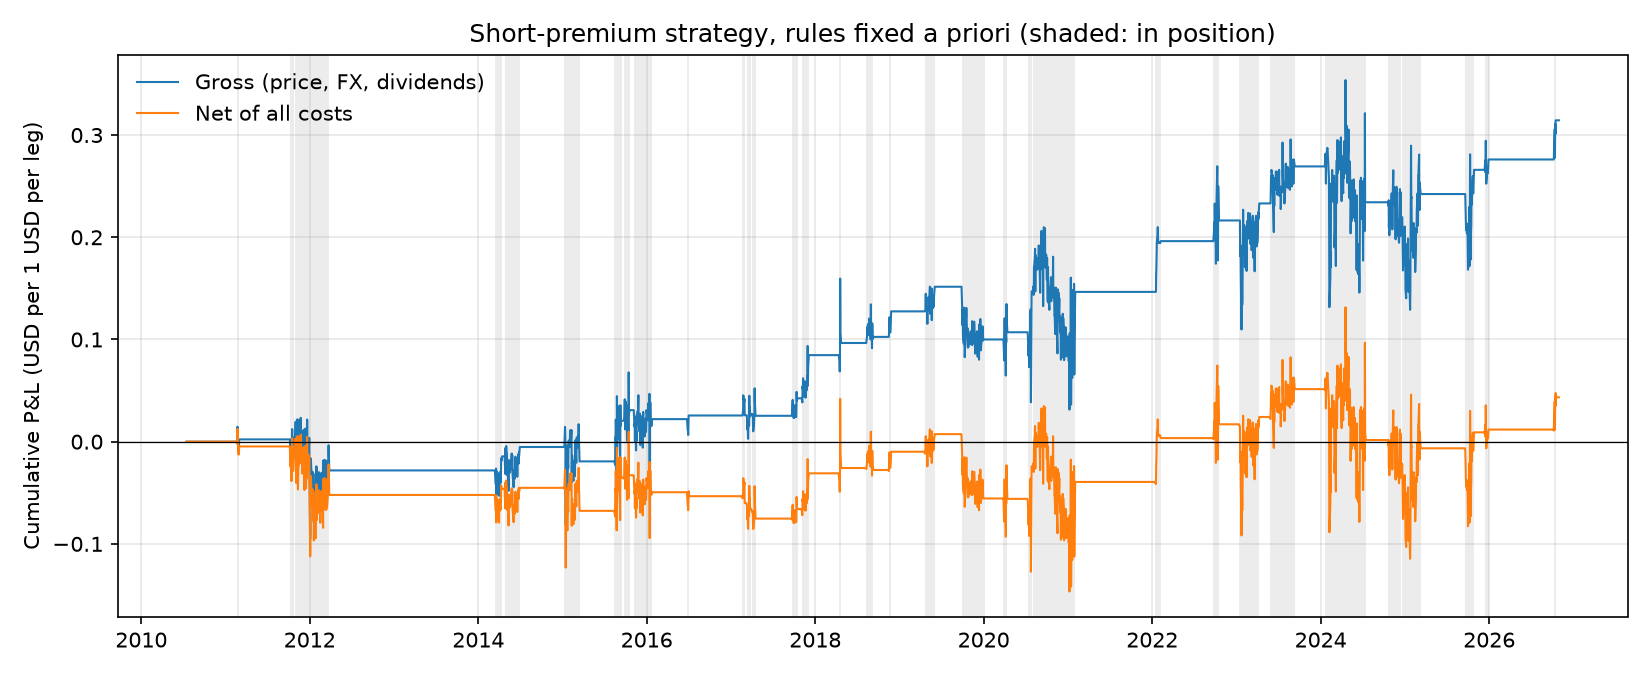
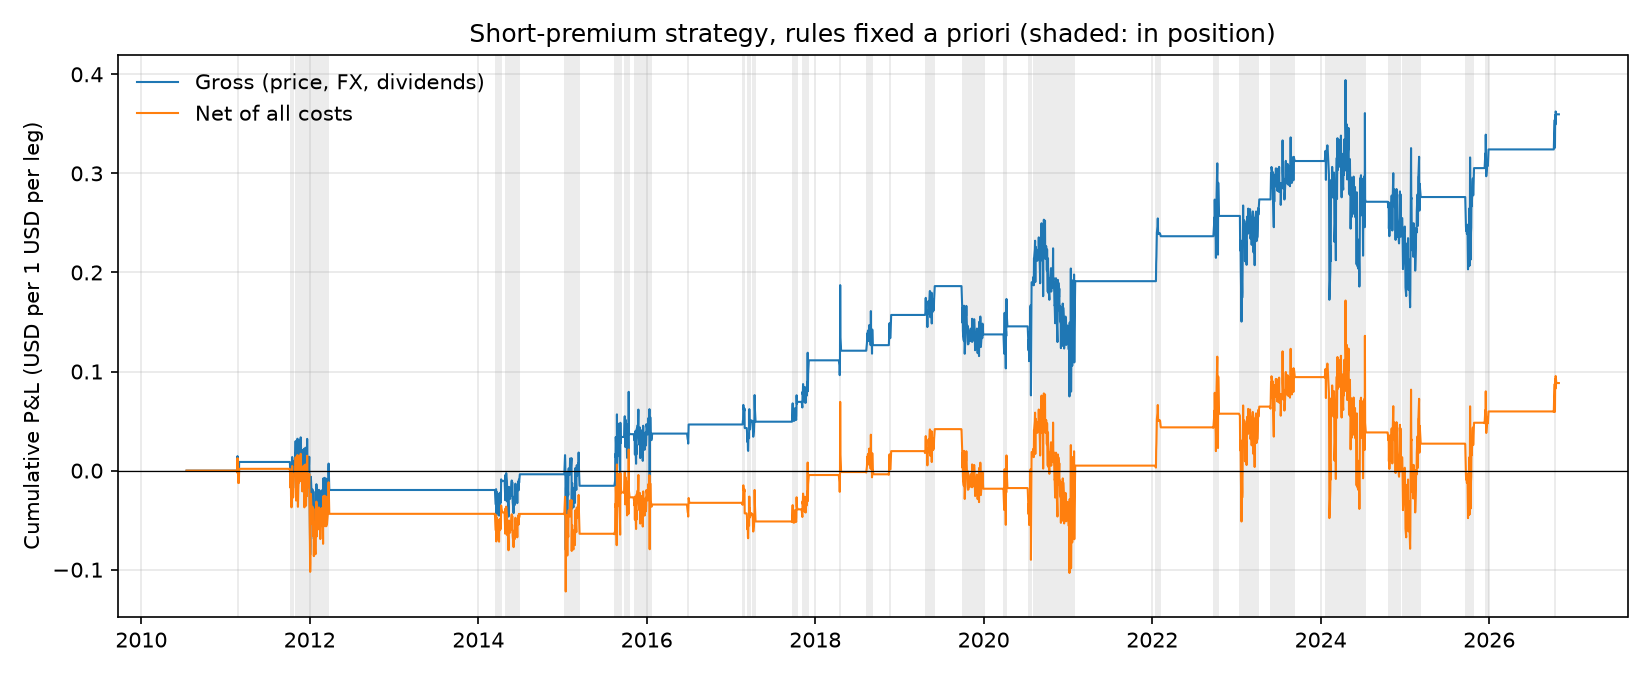
Convert the local leg at its own execution dates and add the net-dividend option
The local leg now uses the FRED rate of the local entry and exit dates. A new cost
option lets the ADR short pay the dividend net of withholding (default: gross), and
the financing assumption is stated in the module and the script output. One-trade
terms are computed once, so the fast final P&L and the daily path agree by test.

diff --git a/src/adr_premium/backtest.py b/src/adr_premium/backtest.py
@@ -10,7 +10,8 @@ Each leg trades at the first closing price strictly after that moment:
 - ADR: NY close of the first NY trading date >= d (NY closes after Taipei on the
   same calendar date);
 - local share: Taipei close of the first Taipei trading date > d;
-- FX: FRED rate (noon New York) of the ADR's NY execution date.
+- FX: FRED rate (noon New York) of the local leg's execution date, for both the
+  conversion into TWD at entry and the conversion of the sale proceeds at exit.
 The ``extra_lag`` option moves each leg by that many further trading days on its own
 exchange.
 
@@ -22,6 +23,10 @@ no order could have captured.
 
 Units: each trade puts 1 USD in each leg (long local, short ADR). P&L is in USD per
 1 USD per leg, without compounding; divide by 2 for a return on gross exposure.
+
+Financing: the proceeds of the ADR short sale are assumed to fund the purchase of the
+local share. Neither interest on the short proceeds nor a financing cost of the long
+leg is modelled; the only carry cost is the ADR borrow fee.
 """
 from __future__ import annotations
 
@@ -31,6 +36,9 @@ import numpy as np
 import pandas as pd
 
 from adr_premium.premium import ADR_RATIO, premium_prev_ny
+
+FINANCING_ASSUMPTION = ("Financing: the ADR short-sale proceeds fund the local purchase; no interest "
+                        "income or financing cost is modelled, only the ADR borrow fee.")
 
 # ---------------------------------------------------------------------------
 # Rules fixed a priori: chosen BEFORE any backtest was run and never tuned on the
@@ -78,10 +86,14 @@ class Costs:
     # Withholding tax on local dividends received by a non-resident. Assumption, not
     # verified (21% general rate since 2018, 20% before; treaties can lower it).
     dividend_withholding: float = 0.21
+    # Whether the ADR short pays the lender the dividend net of withholding (True) or
+    # the gross ADR dividend (False, default). Assumption, not verified.
+    short_pays_net_dividend: bool = False
 
     @classmethod
     def zero(cls) -> "Costs":
-        return cls(0.0, 0.0, 0.0, 0.0, 0.0, 0.0)
+        return cls(adr_commission=0.0, local_commission=0.0, local_sale_tax=0.0, fx_conversion=0.0,
+                   adr_borrow_fee=0.0, dividend_withholding=0.0)
 
 
 def _clean(s: pd.Series) -> pd.Series:
@@ -193,6 +205,15 @@ class Market:
     calendar: pd.DatetimeIndex
     ratio: int = ADR_RATIO
 
+    def __post_init__(self):
+        self._fx_dates = self.fx.index.to_numpy()
+        self._fx_values = self.fx.to_numpy()
+        self._div = {}
+        for col in ("adr", "local"):
+            d = self.dividends[col].dropna() if col in self.dividends else pd.Series(dtype=float)
+            d.index = pd.DatetimeIndex(d.index)
+            self._div[col] = d.astype(float)
+
     @classmethod
     def build(cls, adr, local, fx, dividends=None, ratio: int = ADR_RATIO) -> "Market":
         adr, local, fx = _clean(adr), _clean(local), _clean(fx)
@@ -202,79 +223,128 @@ class Market:
         return cls(adr, local, fx, dividends, cal, ratio)
 
     def fx_at(self, date) -> float:
-        """FRED rate at or before ``date`` (a NY execution date)."""
-        return float(self.fx.asof(date))
+        """FRED rate at or before ``date``."""
+        i = self._fx_dates.searchsorted(np.datetime64(date), side="right") - 1
+        return float(self._fx_values[i]) if i >= 0 else np.nan
+
+    def dividends_between(self, col: str, start, end) -> pd.Series:
+        """Ex-dates in (start, end]: a holder at the close before the ex-date is paid."""
+        d = self._div[col]
+        return d[(d.index > start) & (d.index <= end)]
 
     def on_calendar(self, s: pd.Series) -> pd.Series:
         """Last value at or before each calendar date."""
         return s.reindex(s.index.union(self.calendar)).ffill().reindex(self.calendar)
 
 
-def trade_path(trade: pd.Series, mkt: Market, costs: Costs) -> pd.DataFrame:
+@dataclass
+class TradeTerms:
+    """Execution prices, rates and dated one-off flows of one trade."""
+    a_in: pd.Timestamp
+    a_out: pd.Timestamp
+    l_in: pd.Timestamp
+    l_out: pd.Timestamp
+    pa_in: float
+    pa_out: float
+    pl_in: float
+    pl_out: float
+    fx_in: float
+    fx_out: float
+    shares: float  # local shares bought with 1 USD
+    local_exit_usd: float  # USD proceeds of the local sale
+    flows: list  # (date, component, signed amount)
+    borrow_total: float  # signed, over the whole holding period
+
+
+def trade_terms(trade, mkt: Market, costs: Costs) -> TradeTerms:
+    """Execution terms of one trade.
+
+    The local leg is converted at the FRED rate of its own execution dates: 1 USD is
+    converted to TWD on the local entry date, and the sale proceeds back to USD on the
+    local exit date.
+
+    Financing assumption: the proceeds of the ADR short sale fund the purchase of the
+    local share. No interest is earned on the short proceeds and no financing cost is
+    charged on the long leg; the only carry modelled is the ADR borrow fee.
+    """
+    a_in, a_out = pd.Timestamp(trade["adr_entry_date"]), pd.Timestamp(trade["adr_exit_date"])
+    l_in, l_out = pd.Timestamp(trade["local_entry_date"]), pd.Timestamp(trade["local_exit_date"])
+    pa_in, pa_out = float(mkt.adr.loc[a_in]), float(mkt.adr.loc[a_out])
+    pl_in, pl_out = float(mkt.local.loc[l_in]), float(mkt.local.loc[l_out])
+    fx_in, fx_out = mkt.fx_at(l_in), mkt.fx_at(l_out)
+    shares = fx_in / pl_in  # 1 USD converted to TWD, then local shares bought
+    local_exit_usd = shares * pl_out / fx_out
+    wht = costs.dividend_withholding
+
+    flows = []
+    for ex, amount in mkt.dividends_between("local", l_in, l_out).items():
+        gross = shares * amount / mkt.fx_at(ex)
+        flows += [(ex, "dividends_gross", gross), (ex, "withholding_tax", -wht * gross)]
+    for ex, amount in mkt.dividends_between("adr", a_in, a_out).items():
+        gross = amount / pa_in
+        flows.append((ex, "dividends_gross", -gross))
+        if costs.short_pays_net_dividend:
+            # The short owes the dividend net of withholding: the saving is booked
+            # against withholding_tax, so the gross P&L is the same in both cases.
+            flows.append((ex, "withholding_tax", wht * gross))
+
+    flows += [
+        (a_in, "adr_commission", -costs.adr_commission * 1.0),
+        (a_out, "adr_commission", -costs.adr_commission * pa_out / pa_in),
+        (l_in, "local_commission", -costs.local_commission * 1.0),
+        (l_out, "local_commission", -costs.local_commission * local_exit_usd),
+        # The transaction tax applies to sales of the local share only (here: the exit).
+        (l_out, "local_tax", -costs.local_sale_tax * local_exit_usd),
+        (l_in, "fx_conversion", -costs.fx_conversion * 1.0),  # USD -> TWD
+        (l_out, "fx_conversion", -costs.fx_conversion * local_exit_usd),  # TWD -> USD
+    ]
+    borrow = -costs.adr_borrow_fee * (a_out - a_in).days / 365.0
+    return TradeTerms(a_in, a_out, l_in, l_out, pa_in, pa_out, pl_in, pl_out, fx_in, fx_out,
+                      shares, local_exit_usd, flows, borrow)
+
+
+def trade_final(trade, mkt: Market, costs: Costs) -> pd.Series:
+    """Final P&L components of one trade (fast: no daily path)."""
+    t = trade_terms(trade, mkt, costs)
+    out = dict.fromkeys(PNL_COMPONENTS, 0.0)
+    out["price_fx"] = (1 - t.pa_out / t.pa_in) + (t.local_exit_usd - 1)
+    for _, col, amount in t.flows:
+        out[col] += amount
+    out["borrow_fee"] = t.borrow_total
+    return pd.Series(out)
+
+
+def trade_path(trade, mkt: Market, costs: Costs) -> pd.DataFrame:
     """Cumulative P&L components of one trade on every calendar date (USD per 1 USD leg).
 
     Components (costs are negative):
-    - price_fx: mark-to-market of both legs on their own closes, local leg converted
-      at the FRED rate of each date and, at exit, at the exit rate;
+    - price_fx: mark-to-market of both legs on their own closes, the local leg
+      converted at the FRED rate of each date while held;
     - dividends_gross: local dividends received (gross) minus ADR dividends paid by the
       short, booked on the ex-date. Both legs drop by their dividend on that date, so
       price_fx + dividends_gross is the total return before frictions;
     - withholding_tax, adr_commission, local_commission, local_tax (sales only),
       fx_conversion, borrow_fee.
     """
+    t = trade_terms(trade, mkt, costs)
     cal = mkt.calendar
-    a_in, a_out = trade["adr_entry_date"], trade["adr_exit_date"]
-    l_in, l_out = trade["local_entry_date"], trade["local_exit_date"]
-    pa_in, pa_out = float(mkt.adr.loc[a_in]), float(mkt.adr.loc[a_out])
-    pl_in, pl_out = float(mkt.local.loc[l_in]), float(mkt.local.loc[l_out])
-    fx_in, fx_out = mkt.fx_at(a_in), mkt.fx_at(a_out)
-    shares = fx_in / pl_in  # 1 USD converted to TWD, then local shares bought
-    local_exit_usd = shares * pl_out / fx_out
-
     out = pd.DataFrame(0.0, index=cal, columns=PNL_COMPONENTS)
 
     # Short ADR: 1 USD sold at pa_in.
-    adr_c = mkt.on_calendar(mkt.adr)
-    adr_pnl = 1 - adr_c / pa_in
-    adr_pnl[cal < a_in] = 0.0
-    adr_pnl[cal >= a_out] = 1 - pa_out / pa_in
+    adr_pnl = 1 - mkt.on_calendar(mkt.adr) / t.pa_in
+    adr_pnl[cal < t.a_in] = 0.0
+    adr_pnl[cal >= t.a_out] = 1 - t.pa_out / t.pa_in
     # Long local: valued at the FRED rate of each date while held.
-    loc_c, fx_c = mkt.on_calendar(mkt.local), mkt.on_calendar(mkt.fx)
-    loc_pnl = shares * loc_c / fx_c - 1
-    loc_pnl[cal < l_in] = 0.0
-    loc_pnl[cal >= l_out] = local_exit_usd - 1
+    loc_pnl = t.shares * mkt.on_calendar(mkt.local) / mkt.on_calendar(mkt.fx) - 1
+    loc_pnl[cal < t.l_in] = 0.0
+    loc_pnl[cal >= t.l_out] = t.local_exit_usd - 1
     out["price_fx"] = adr_pnl + loc_pnl
 
-    # Dividends: a holder at the close before the ex-date receives (or owes) it.
-    div = mkt.dividends
-    if len(div):
-        for col, start, end in (("local", l_in, l_out), ("adr", a_in, a_out)):
-            d = div[col].dropna()
-            d = d[(d.index > start) & (d.index <= end)]
-            for ex, amount in d.items():
-                booked = cal >= ex
-                if col == "local":
-                    gross = shares * amount / mkt.fx_at(ex)
-                    out.loc[booked, "dividends_gross"] += gross
-                    out.loc[booked, "withholding_tax"] -= costs.dividend_withholding * gross
-                else:
-                    out.loc[booked, "dividends_gross"] -= amount / pa_in
-
-    # Transaction costs, booked on each execution date.
-    def book(col, date, amount):
-        out.loc[cal >= date, col] -= amount
-
-    book("adr_commission", a_in, costs.adr_commission * 1.0)
-    book("adr_commission", a_out, costs.adr_commission * pa_out / pa_in)
-    book("local_commission", l_in, costs.local_commission * 1.0)
-    book("local_commission", l_out, costs.local_commission * local_exit_usd)
-    # The transaction tax applies to the sale of the local share only (here: the exit).
-    book("local_tax", l_out, costs.local_sale_tax * local_exit_usd)
-    book("fx_conversion", a_in, costs.fx_conversion * 1.0)  # USD -> TWD
-    book("fx_conversion", l_out, costs.fx_conversion * local_exit_usd)  # TWD -> USD
+    for date, col, amount in t.flows:
+        out.loc[cal >= date, col] += amount
 
     # Borrow fee on the initial short notional, pro rata on calendar days.
-    days = np.clip((cal - a_in).days, 0, (a_out - a_in).days)
+    days = np.clip((cal - t.a_in).days, 0, (t.a_out - t.a_in).days)
     out["borrow_fee"] = -costs.adr_borrow_fee * days / 365.0
     return out
 
@@ -313,10 +383,10 @@ def run_backtest(adr: pd.Series, local: pd.Series, fx: pd.Series, dividends=None
         records.append({
             "adr_entry_price": float(mkt.adr.loc[t["adr_entry_date"]]),
             "local_entry_price": float(mkt.local.loc[t["local_entry_date"]]),
-            "fx_entry": mkt.fx_at(t["adr_entry_date"]),
+            "fx_entry": mkt.fx_at(t["local_entry_date"]),
             "adr_exit_price": float(mkt.adr.loc[t["adr_exit_date"]]),
             "local_exit_price": float(mkt.local.loc[t["local_exit_date"]]),
-            "fx_exit": mkt.fx_at(t["adr_exit_date"]),
+            "fx_exit": mkt.fx_at(t["local_exit_date"]),
             "holding_days": (last - first).days,
             **final.to_dict(),
         })

diff --git a/tests/test_backtest.py b/tests/test_backtest.py
@@ -7,7 +7,7 @@ import pytest
 
 sys.path.insert(0, str(Path(__file__).resolve().parents[1] / "src"))
 from adr_premium.backtest import (Costs, Market, Rules, execution_dates, run_backtest,
-                                  trade_path, weekly_signal)
+                                  trade_final, trade_path, weekly_signal)
 
 
 def _world(seed=0, n=1500, phi=0.97, sigma_q=0.01, sigma_l=0.012):
@@ -178,3 +178,35 @@ def test_tax_only_on_local_sales():
                         Costs(local_sale_tax=0.0)).iloc[-1]
     assert no_tax["local_tax"] == 0.0
     assert no_tax.drop("local_tax").equals(path.iloc[-1].drop("local_tax"))
+
+
+def test_local_leg_converted_at_local_execution_dates():
+    dates = pd.date_range("2021-01-04", "2022-01-14", freq="B")
+    fx = pd.Series(30.0, index=dates)
+    fx[dates >= "2021-01-05"] = 31.0  # local entry date
+    fx[dates >= "2022-01-05"] = 33.0  # local exit date; the ADR exits the day before at 31
+    mkt = Market.build(pd.Series(100.0, index=dates), pd.Series(600.0, index=dates), fx)
+    end = trade_path(_trade(), mkt, Costs.zero()).iloc[-1]
+    # 1 USD -> 31 TWD at entry, the same shares sold for 31 TWD -> 31/33 USD at exit.
+    assert end["price_fx"] == pytest.approx(31 / 33 - 1)
+
+
+def test_short_can_pay_the_net_adr_dividend():
+    div = pd.DataFrame({"adr": [1.5]}, index=pd.DatetimeIndex(["2021-06-15"]))
+    gross_case = trade_path(_trade(), _flat_market(div), Costs()).iloc[-1]
+    net_case = trade_path(_trade(), _flat_market(div), Costs(short_pays_net_dividend=True)).iloc[-1]
+    assert gross_case["dividends_gross"] == net_case["dividends_gross"] == pytest.approx(-0.015)
+    assert gross_case["withholding_tax"] == 0.0
+    assert net_case["withholding_tax"] == pytest.approx(0.21 * 0.015)
+
+
+def test_trade_final_matches_the_end_of_the_daily_path():
+    adr, local, fx = _world(4)
+    fx = fx * np.exp(np.random.default_rng(4).normal(0, 0.003, len(fx)).cumsum())
+    div = pd.DataFrame({"adr": [0.5, np.nan], "local": [np.nan, 3.0]},
+                       index=pd.DatetimeIndex([adr.index[300], adr.index[301]]))
+    res = run_backtest(adr, local, fx, div, rules=Rules(entry_z=1.0), costs=Costs())
+    mkt = Market.build(adr, local, fx, div)
+    for _, t in res.trades.iterrows():
+        pd.testing.assert_series_equal(trade_final(t, mkt, Costs()),
+                                       trade_path(t, mkt, Costs()).iloc[-1], check_names=False)

diff --git a/scripts/backtest.py b/scripts/backtest.py
@@ -27,8 +27,8 @@ import matplotlib
 matplotlib.use("Agg")
 import matplotlib.pyplot as plt
 
-from adr_premium.backtest import (COST_COMPONENTS, Costs, Rules, check_dividends, cost_breakdown,
-                                  metrics, run_backtest)
+from adr_premium.backtest import (FINANCING_ASSUMPTION, Costs, Rules, check_dividends,
+                                  cost_breakdown, metrics, run_backtest)
 from adr_premium.clean import prepare_fred_fx
 from adr_premium.data import download, download_dividends, download_fred_fx
 
@@ -139,6 +139,7 @@ def main() -> None:
     rows, trade_tables = [], []
     base_rules, base_costs = Rules(), Costs()
     runs = [("a_priori", base_rules, base_costs),
+            ("short_pays_net_dividend", base_rules, replace(base_costs, short_pays_net_dividend=True)),
             ("execution_lag_1d", replace(base_rules, extra_lag=1), base_costs)]
     runs += [(f"grid_entry{e}_window{w}", replace(base_rules, entry_z=e, window=w), base_costs)
              for e in ENTRY_GRID for w in WINDOW_GRID]
@@ -161,6 +162,9 @@ def main() -> None:
     print("\n=== HEADLINE RESULT: rules fixed a priori (entry z > 1.5, window 26, exit z < 0 "
           "or 26 weeks), default costs ===")
     print(f"Sample: {main_res.start.date()} to {main_res.daily.index[-1].date()}")
+    print(FINANCING_ASSUMPTION)
+    print("FX: the local leg is converted at the FRED rate of its own execution dates. "
+          "The ADR short pays the GROSS ADR dividend (see the net variant below).")
     m_cols = ["pnl", "ann_return", "ann_vol", "sharpe", "ann_vol_weekly", "sharpe_weekly",
               "max_drawdown", "total_pnl", "n_trades", "avg_holding_weeks", "win_rate", "exposure"]
     head = table[(table["scenario"] == "a_priori") & (table["period"] == "full")]
@@ -168,6 +172,10 @@ def main() -> None:
 
     print("\nP&L decomposition, full sample (USD per 1 USD per leg):")
     print(cost_breakdown(main_res.daily).to_string(float_format=lambda x: f"{x:+.4f}"))
+
+    print("\nVariant: the ADR short pays the dividend NET of withholding:")
+    netdiv = table[(table["scenario"] == "short_pays_net_dividend") & (table["period"] == "full")]
+    print(show(netdiv, m_cols + ["sum_withholding_tax"]))
 
     print("\nBy sub-period (a priori rules):")
     sub = table[(table["scenario"] == "a_priori") & (table["period"] != "full")]
